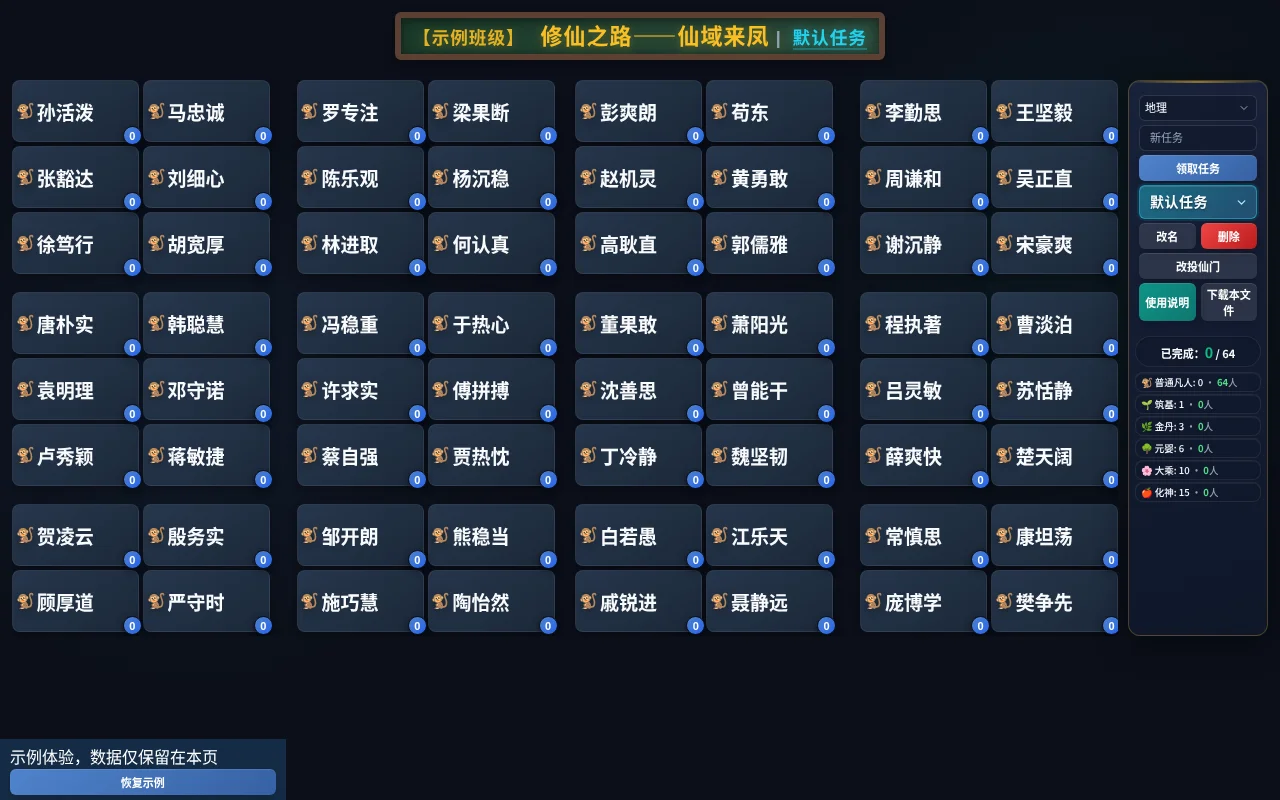
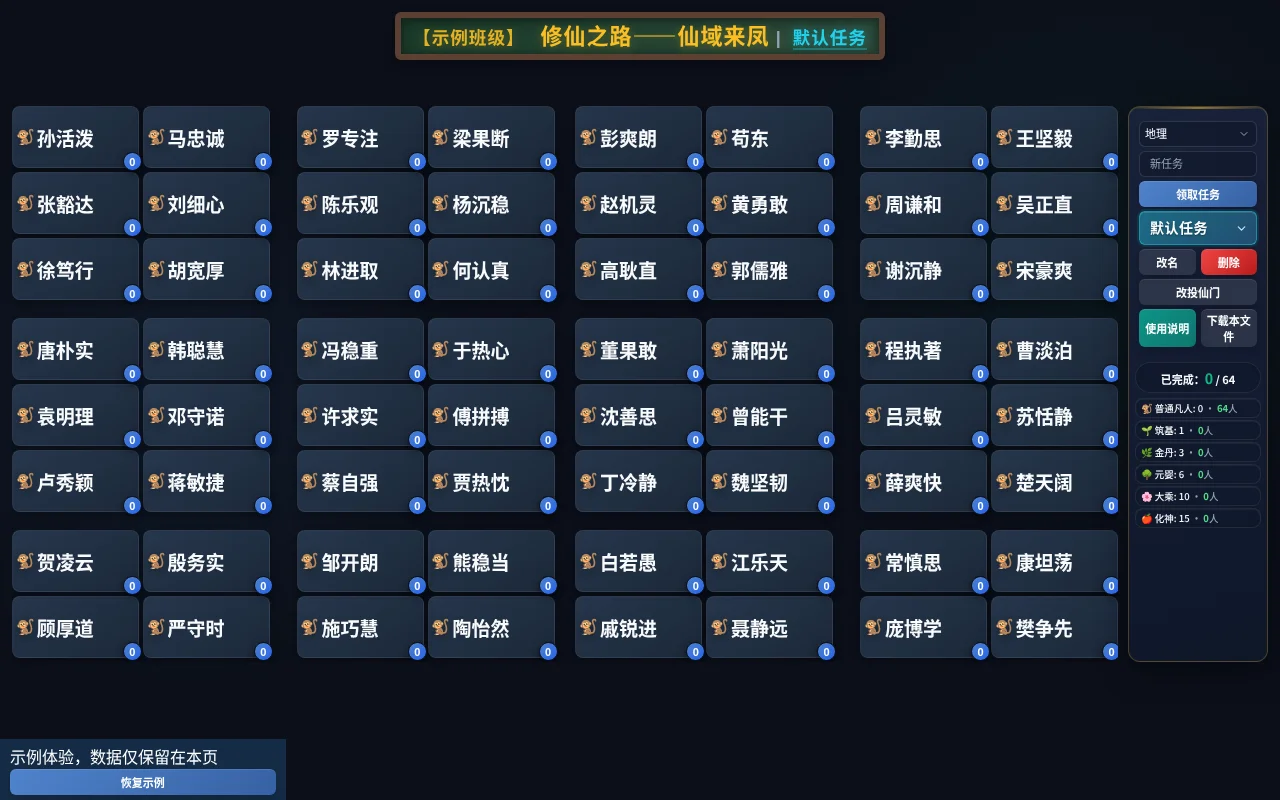
Preserve layout after removing visitor counter

diff --git a/wb1024-c467-8749361d/showcase/preview.html b/wb1024-c467-8749361d/showcase/preview.html
@@ -784,6 +784,7 @@ button.special-action:hover {
     </div>
   </div>
   
+  <div class="visit-counter" aria-hidden="true">&nbsp;</div>
   <div class="main-layout">
     <div class="main-content">
       <div id="studentContainer"></div>

diff --git a/wb1024-c467-8749361d/src/standalone.html b/wb1024-c467-8749361d/src/standalone.html
@@ -784,6 +784,7 @@ button.special-action:hover {
     </div>
   </div>
   
+  <div class="visit-counter" aria-hidden="true">&nbsp;</div>
   <div class="main-layout">
     <div class="main-content">
       <div id="studentContainer"></div>

diff --git a/wb1024-c467-8749361d/src/body.html b/wb1024-c467-8749361d/src/body.html
@@ -8,6 +8,7 @@
     </div>
   </div>
   
+  <div class="visit-counter" aria-hidden="true">&nbsp;</div>
   <div class="main-layout">
     <div class="main-content">
       <div id="studentContainer"></div>
